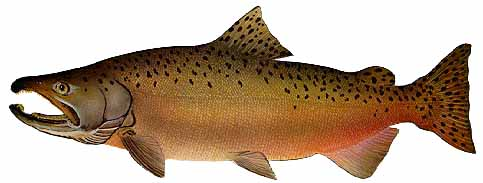
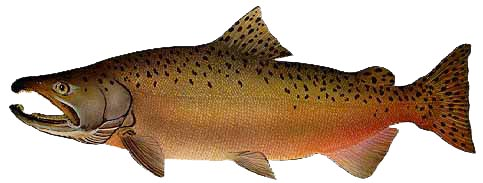
final commit

diff --git a/products.html b/products.html
@@ -1,0 +1,48 @@
+<!DOCTYPE html>
+<html>
+	<head>
+		<title>Products</title>
+        <link rel='stylesheet' href='css/locations.css'>
+        <link href='https://fonts.googleapis.com/css?family=Shadows+Into+Light' rel='stylesheet'>
+        <link href="https://fonts.googleapis.com/css?family=Varela+Round" rel="stylesheet">
+	</head>
+	<body>
+        <header>Products</header>
+		<div id='page'>
+			<div id='salmon'>
+				<center><img src='img/chinook.png' alt='Salmon Cookies' width='480px'/></center>
+			</div>
+			<ul id='navigation'>
+                    <li><a href='index.html' target="_blank">Home</a></li>
+                    <li><a href='locations.html' target="_blank">Locations</a></li>
+                    <li><a href='sales.html' target="_blank">Sales</a></li>
+                    <li><a href='products.html'>Products</a></li>
+                    <li><a href='#'>About</a></li>
+                    <li><a href='#'>Contact</a></li>
+                </ul>
+                <table>
+                    <tr>
+                        <td>
+                            <img src="img/shirt.jpg" alt="Salmon Shirt" width="100">
+                        </td>
+                        <td class = 'description'>Check out this awesome t-shirt!  Show your support by buying this amazing t-shirt.</td>
+                    </tr>
+
+                    <tr>
+                            <td>
+                                <img src="img/cutter.jpg" alt="Cookie Cutter" width="100">
+                            </td>
+                            <td class = 'description'>Plann on baking this winter?  Try our awesome cookie cutter to complement your salmon cookies!</td>
+                        </tr>
+
+                        <tr>
+                            <td>
+                                <img src="img/frosted-cookie.jpg" alt="Christmas Cookie" width="100">
+                                </td>
+                                <td class = 'description'>Our limited edition, Christmas cookie is here!!!</td>
+                            </tr>
+                </table>
+			
+		</div>
+	</body>
+</html>

diff --git a/css/products.css b/css/products.css
@@ -1,0 +1,63 @@
+body {
+    font-size: 80%;
+    font-family: 'Questrial', Arial, Helvetica, sans-serif;
+    letter-spacing: 0.15em;	
+    background-color: #3F3D2F;}
+header{
+    font-size: 1in;
+    text-align: center;
+    width: auto;
+    font-family: 'Shadows Into Light', cursive;
+}
+
+#page {
+    max-width: 1000px;
+    min-width: 600px;
+    margin: 30px auto 30px auto;
+    padding: 20px;
+    border: 4px double #000;
+    background-color: #8A764B;}
+
+#logo {
+    width: 200px;
+    margin: 30px auto 210px auto;}
+
+ul {
+    width: 700px;
+    padding: 110px;
+    margin: 0px auto 0px auto;
+    border-top: 2px solid #000;
+    border-bottom: 1px solid #000;
+    text-align: center;}
+li {
+    display: inline;
+    margin: 0px 3px;
+}
+p {
+    text-align: center;
+    width: 600px; 
+    margin: 20px auto 20px auto; 
+    font-weight: normal;}
+a {
+    color: #000000;
+    text-transform: uppercase;
+    text-decoration: none;
+    padding: 6px 18px 10px 18px;}
+a:hover, a.on {
+    color: #000000ef;
+    background-color: #ffffff38;}
+
+td.description{
+    min-width: 450px;
+    max-width: 650px;
+    text-align: left;
+    padding: 10px;
+    margin: 0px;
+    vertical-align: top;
+    font-family:'Varela Round', sans-serif;
+}
+
+table {
+    margin: 20px;
+}
+

diff --git a/locations.html b/locations.html
@@ -10,13 +10,13 @@
         <header>Locations</header>
 		<div id='page'>
 			<div id='salmon'>
-				<center><img src='img/salmon.png' alt='Salmon Cookies' width='800px'/></center>
+				<center><img src='img/fish2.png' alt='Salmon Cookies' width='300px'/></center>
 			</div>
 			<ul id='navigation'>
                     <li><a href='index.html' target="_blank">Home</a></li>
                     <li><a href='locations.html' target="_blank">Locations</a></li>
                     <li><a href='sales.html' target="_blank">Sales</a></li>
-                    <li><a href='#'>Products</a></li>
+                    <li><a href='products.html'>Products</a></li>
                     <li><a href='#'>About</a></li>
                     <li><a href='#'>Contact</a></li>
                 </ul>

diff --git a/index.html b/index.html
@@ -15,7 +15,7 @@
 				<li><a href='index.html' target="_blank">Home</a></li>
 				<li><a href='locations.html' target="_blank">Locations</a></li>
 				<li><a href='sales.html' target="_blank">Sales</a></li>
-				<li><a href='#'>Products</a></li>
+				<li><a href='products.html'>Products</a></li>
 				<li><a href='#'>About</a></li>
 				<li><a href='#'>Contact</a></li>
 			</ul>
